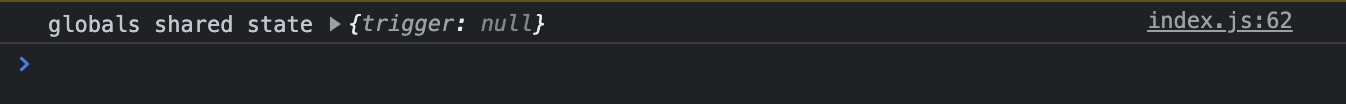
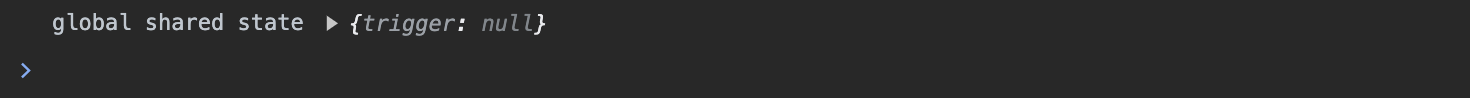
feat: update getting started tutorial

diff --git a/tutorials/getting-started.md b/tutorials/getting-started.md
@@ -1,6 +1,6 @@
 # Getting Started
 
-In this tutorial, you will learn how to setup a simple _soundworks_ application where any connected user will be able to trigger a flash on the screen of all connected clients.
+In this tutorial, we will learn how to setup a project and develop a simple _soundworks_ application where any connected user will be able to trigger a flash on the screen of all connected clients.
 
 The tutorial requires basic knowledge of _JavaScript_, _Node.js_ and of the command-line. If you are just starting with _JavaScript_ development, please first set up a working environment following the instructions [here](/misc/setting-up-environment.html) and come back when done.
 
@@ -13,7 +13,7 @@ The tutorial requires basic knowledge of _JavaScript_, _Node.js_ and of the comm
 
 ## Step 1 - Setting things up
 
-The best and most simple way to create a new _soundworks_ application is to use the dedicated command line tools: 
+The best and most simple way to create a new _soundworks_ application is to use our dedicated command line tools: 
 
 ![soundworks/create](../assets/tutorials/getting-started/soundworks-create-min.gif)
 
@@ -24,13 +24,13 @@ cd path/to/working/dir
 npx @soundworks/create@latest
 ```
 
-:::tip
+::: tip
 If you run the command for the first time (which is quite likely), the `npx` command will tell you that it needs to install the `@soundworks/create` package, just press `Enter` to accept and continue.
 :::
 
-The wizard will startup and ask you for the name of the directory in which you want create the application: just write `getting-started` and press `Enter`. The wizard will automatically create the directory, copy some files and install the required dependencies as illustrated in the screenshot below.
+The wizard will startup and ask you for the name of the directory in which you want create the application: just write `getting-started` and press `Enter`. The wizard will automatically create the directory, copy a bunch of files and install the required dependencies as illustrated in the screenshot below.
 
-:::info
+::: info
 Note that the screenshots in this guide may differ slightly from what you actually see in your console, as the CLI tool might have evolved a bit since the screenshots have been made.
 :::
 
@@ -60,11 +60,18 @@ To make sure the application is correctly set up and installed, just follow the 
 
 ![init-end](../assets/tutorials/getting-started/wizard-init-end.png)
 
-After a few seconds, your server should be running:
+So:
+1. Go to the directory: `cd getting-started`
+2. Optionally create a git project: `git init && git add -A && git commit -m "first commit"`
+3. Launch the project in development mode: `npm run dev`
+
+After a few seconds, the server should be running:
 
 ![server-launched](../assets/tutorials/getting-started/server-launched.png)
 
-Open you favorite browser (which shall probably not be Safari), go to [http://127.0.0.1:8000](http://127.0.0.1:8000), and tada! You should see a rather pretty black screen!
+Open you favorite browser (which shall probably not be Safari), go to [http://127.0.0.1:8000](http://127.0.0.1:8000), and tada! You should see a rather pretty almost black screen:
+
+![fancy-black-screen](../assets/tutorials/getting-started/fancy-black-screen.png)
 
 Congrats! You just configured and ran your first soundworks application. Now, let's have a closer look to the codebase.
 
@@ -76,7 +83,6 @@ Press `Ctrl + C` to stop the server and open the `getting-started` directory in 
 getting-started
 ├── .build              # Directory where your application is built
 ├── config              # Configuration files
-│   ├── env
 │   └── application.json  
 ├── node_modules        # Directory where all dependencies are installed
 ├── public              # Directory that is exposed by the server
@@ -84,22 +90,27 @@ getting-started
 │   ├── clients         # Directory where all clients are declared
 │   │   ├── components  
 │   │   ├── player      # Source code of the `player` client you just created
+│   │   └── styles
 │   ├── server          # Source code of the server
 │   └── utils   
 ├── package.json        # File that contains the declaration of your dependencies
 └── README.md           # General infos about your application
 ```
 
-- The `node_modules` and `.build` directories should **_never_** be edited manually. They are used by the Node Package Manager (i.e. `npm`) and the  _soundworks_ build tools to install dependencies and bundle your application.
-- The `src` directory at contrary contains all the source files of your application, this is where you will work most of the time.
-- The `public` directory is the directory that is exposed to the network by the server. This is the place where you should put your static assets such as images or soundfiles that the clients of your application will download and use. 
+There are a few thing to note about all these files:
+- The `node_modules` and `.build` directories should **_never_** be edited manually. They are repspectively used by the Node Package Manager (i.e. `npm`) to install dependencies of your application, and by the _soundworks_ build tools to make some transformation on your source files.
+- The `src` directory, at contrary, contains all the source files of your application, this is where you will work most of the time.
+- The `public` directory is the directory that is exposed to the network by the server. This is the place where you should put your static assets such as images or sound files, so that clients connected to your application can download and use them. 
 
-:::warn
-It is **_very_** important to understand that exposing a directory to the network means that all files located in this directory will be accessible by **_any_**computer connected to the same network.  
-**_So, be careful to not expose sensitive or private informations there._**. This is an important thing to keep in mind whenever you deal with servers and networks, it's not specific to soundworks applications.
+::: warning
+It is **_very_** important to understand and to keep in mind that exposing a directory to the network means that **_all the files_** located in this directory will be accessible by **_any_** computer connected to the same network.  
+
+**_So, DO NOT expose any sensitive or private information in this directory_**.  
+
+This is an important thing to keep in mind whenever you deal with servers and networks, it's not specific to _soundworks_ applications.
 :::
 
-Now that we have an overview of the file structure of a _soundworks_ application, let's write some code!
+Now that we have overviewed the file structure of a _soundworks_ application, let's write some code!
 
 ## Step 3 - Create a global shared state
 
@@ -125,31 +136,38 @@ const globalSchema = {
 };
 ```
 
-Here, we just create a plain old JavaScript object that follows the _soundworks_ schema definition (if you are familiar with databases, you can think of it as the schema of a table). The full API documentation for a schema is accessible [here](https://soundworks.dev/soundworks/server.StateManager#~schema) but for now, it's ok to just understand that we declared some data structure a parameter named `trigger` that is configured to be a `boolean` event.
+Here, we are just creating a plain old JavaScript object that follows the _soundworks_ schema definition. This data structure declares a parameter named `trigger` that is configured to be a `boolean` event.
 
-Then we will need to register this schema into the _soundworks_' state manager:
+::: tip
+If you are familiar with databases, you can think of these data structure as the schema of a table. 
+If you are curious, the full API documentation for declaring schemas can be found [here](https://soundworks.dev/soundworks/server.StateManager#~schema).
+:::
+
+Then we need to register this schema declaration into the _soundworks_' state manager:
 
 ```js {5}
-const globalsSchema = {
+const globalSchema = {
   trigger: { type: 'boolean', event: true },
 };
 
-server.stateManager.registerSchema('globals', globalsSchema);
+server.stateManager.registerSchema('global', globalSchema);
 ```
 
-Finally, we will create an global shared state instance from this schema definition:
+Finally, we can create a global shared state instance from this schema definition:
 
 ```js {7}
-const globalsSchema = {
+const globalSchema = {
   trigger: { type: 'boolean', event: true },
 };
 
-server.stateManager.registerSchema('globals', globalsSchema);
+server.stateManager.registerSchema('global', globalSchema);
 
-const globals = await server.stateManager.create('globals');
+const global = await server.stateManager.create('global');
 ```
 
-And that's it for the server-side logic! If everything went well, you should see no error in the Terminal, and launching a [client](http://120.0.0.1:8000) should still show you the same fancy black page.
+And, that's it for the server-side logic! 
+
+If everything went well, you should see no error in the Terminal, and launching a [client in your browser](http://120.0.0.1:8000) should still show you the same fancy black page.
 
 ## Step 4 - Make clients interactive
 
@@ -157,87 +175,105 @@ Now that the server-side logic is ready, let's implement the client-side of our 
 
 Open a browser and go to [http://127.0.0.1:8000](http://127.0.0.1:8000), then go back to your text editor and open the `src/clients/player/index.js` file.
 
-Let's first add a line of code to display some text on the page to make sure we can act on this fancy black screen:
+First, let's change a line of code to modify the text on the page to make sure we can act on this fancy black screen:
 
 ```js
 // src/clients/player/index.js
-const $layout = createLayout(client, $container); // [!code --]
-$container.innerHTML = `<h1 style="padding:20px;">Click here!</h1>`; // [!code ++]
+await client.start();
+
+render(html`
+  <div class="simple-layout">
+    <p>Hello ${client.config.app.name}!</p> // [!code --]
+    <p>Click here</p>  // [!code ++]
+
+    <sw-credits .infos="${client.config.app}"></sw-credits>
+  </div>
+`, $container);
 ```
 
-Here, we programmatically modify the HTML of our document directly from the JavaScript code.
+If you reload the page (`Cmd + Shift + R`), you should now see the text "click here" displayed of the top left of your screen.
 
-:::tip
-The `$container` variable we use in this snippet refers to an HTML element in which our client interface should be displayed.
+::: tip
+The HTML rendering is done here using the [lit](https://lit.dev/) library developped by _Google_. 
 
-The `$layout` we just removed is just a convenience object proposed by the template as a starting point for building interfaces. It is based on the [lit](https://lit.dev/) library developped by _Google_ and its source code is located in `src/clients/player/views/layout.js`. As shown in this simple example _soundworks_ does not require the usage of this abstraction, nor of the `lit` library.
+While we promote usage of this library in the default application template, _soundworks_ does not require usage of this library and could potentially be used with any other library or framework.
 :::
 
-If you reload the page (`Cmd + Shift + R`), you should see the text "click here" displayed of the top left of your screen, so we are ensured we got some control over this Web page.
-
-Now, let's go back to our client-side logic and add the following code in the same  file:
+Now that we are sure everything works as expected and that we have control over the behavior of this Web page, let's add the following code in the same file:
 
 ```js {4-5}
 // src/clients/player/index.js
 await client.start();
 
-const globals = await client.stateManager.attach('globals');
-console.log('globals shared state', globals.getValues());
+const global = await client.stateManager.attach('global');
+console.log('global shared state', global.getValues());
 
-$container.innerHTML = `<h1 style="padding:20px;">Click here!</h1>`;
+render(html`
+  <div class="simple-layout">
+    <p>Click here</p>
+    <sw-credits .infos="${client.config.app}"></sw-credits>
+  </div>
+`, $container);
 ```
 
-Here, we simply attach our client to the `globals` state created by the server. This means that our client will be able to make some updates to the shared state, as well as being notified when a change is made to the shared state.
+Here, we simply attach our client to the `global` state created by the server. This means that our client will be able 1. to apply some updates to the shared state, and 2. to be notified when a change is made to the shared state from another client on the network.
 
-The second line will just log the current values of the `globals` shared state into the browser's console, so that we can check that the shared state has been successfully attached.
+The second line will just log the current values of the `global` shared state into the browser's console, so that we can make sure that the `global` shared state has been successfully attached.
 
 ![browser-console](../assets/tutorials/getting-started/browser-console.png)
 
 :::tip
-To open the _JavaScript_ console in your browser, you can press `Cmd + Alt + J` in 
-_Chrome_ or alternatively `Cmd + Alt + I` in _Firefox_, then select the `Console` tab.
+To open the _JavaScript_ console in your browser, you should press `Cmd + Alt + J` in 
+_Chrome_ or `Cmd + Alt + I` in _Firefox_, then select the `Console` tab.
 ::: 
 
-Then, let's write the code that allows us to react to any change made on the shared state:
+Now that our shared state is attached, let's write the code that allows us to react to any change made on the shared state:
 
-```js {5-7}
+```js {6-8}
 await client.start();
 
-const globals = await client.stateManager.attach('globals');
+const global = await client.stateManager.attach('global');
+console.log('global shared state', global.getValues());
 
-globals.onUpdate(updates => {
+global.onUpdate(updates => {
+  console.log(updates);
+});
+````
+
+In this snippet, we use the `onUpdate` method of the `global` shared state that allows us to register a function to be executed when something is update on the state. For now, the callback function will just log the updates in the console, but we will come back there later on to do something more fancy.
+
+At this point, we have all the logic we need to react to a change in the `global` shared state, but nothing to actually trigger a change. So, let's now add the following code to update the value of the `trigger` parameter when the user clicks on the screen:
+
+```js {10-12}
+await client.start();
+
+const global = await client.stateManager.attach('global');
+console.log('global shared state', global.getValues());
+
+global.onUpdate(updates => {
   console.log(updates);
 });
 
-$container.innerHTML = `<h1 style="padding:20px;">Click here!</h1>`;
-````
-
-In this snippet, we use the `onUpdate` method of the `globals` shared state that allows us to trigger a function (the callback function will just log the updates for now, but we will come back here later).
-
-At this point, we have the logic we need to react to any `globals` shared state change, but nothing to actually trigger a change. Let's add the following code to update the value of the `trigger` parameter when the user clicks on the screen:
-
-```js {3-5}
-$container.innerHTML = `<h1 style="padding:20px;">Click here!</h1>`;
-
 $container.addEventListener('click', () => {
-  globals.set({ trigger: true });
+  global.set({ trigger: true });
 });
 ```
 
-Reload the page again (`Cmd + Shift + R`), and now whenever you click on the screen you should see a new log in the console.
+Reload the page again (`Cmd + Shift + R`), and click anywhere on the screen, you should see a new log appear in the console on each click.
 
 ![browser-console-2](../assets/tutorials/getting-started/browser-console-2.png)
 
-Finally, we just need to review the code inside the `onUpdate` callback to make the screen blink instead of just logging the shared state updates into the console.
+Finally, let's just review the code inside the `onUpdate` callback function to change the color of the screen, instead of just logging into the console.
 
-```js {6-11}
+```js {6-12}
 await client.start();
 
-const globals = await client.stateManager.attach('globals');
+const global = await client.stateManager.attach('global');
 
-globals.onUpdate(updates => {
+global.onUpdate(updates => {
   if (updates.trigger === true) {
     $container.style.backgroundColor = 'white';
+
     setTimeout(() => {
       $container.style.backgroundColor = 'black';
     }, 50);
@@ -245,13 +281,13 @@ globals.onUpdate(updates => {
 });
 ```
 
-Here, whenever the `trigger` parameter of the `globals` shared state is set to `true`, we pass the background of the screen to `'white'` and put it back to `'black'` after 50ms.
+Now, whenever the `trigger` parameter of the `global` shared state is set to `true`, we change the background color of the screen to `'white'` and put it back to `'black'` after 50ms.
 
-To see the shared state in action (and understand more precisely why we keep calling it a "_shared state_"), let's emulate several parallel clients in our browser window. To that end, open [http://127.0.0.1:8000?emulate=8](http://127.0.0.1:8000?emulate=8) (note the `?emulate=8` at the end of the URL). 
+To see the shared state in action, and understand more precisely why we keep calling it a "_shared state_", let's emulate several parallel browser clients in our browser window. To that end, open [http://127.0.0.1:8000?emulate=8](http://127.0.0.1:8000?emulate=8) (note the `?emulate=8` at the end of the URL). 
 
 ![emulated-clients](../assets/tutorials/getting-started/emulated-clients.png)
 
-If you click on any of these 8 emulated clients all of them will blink, as they are all attached to the same `globals` shared state, and thus react in the same way to the updates of the state.
+If you click on any of these 8 emulated clients, all of them will blink. Indeed all of them are attached to the same `global` shared state, and react exactly in the same way to the updates of the state.
 
 ## Conclusion
 
